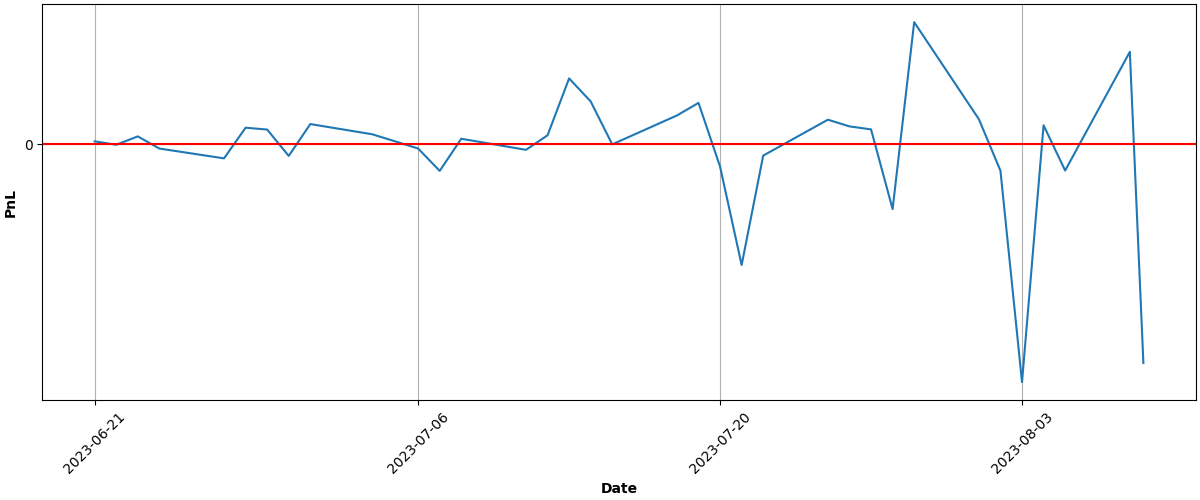
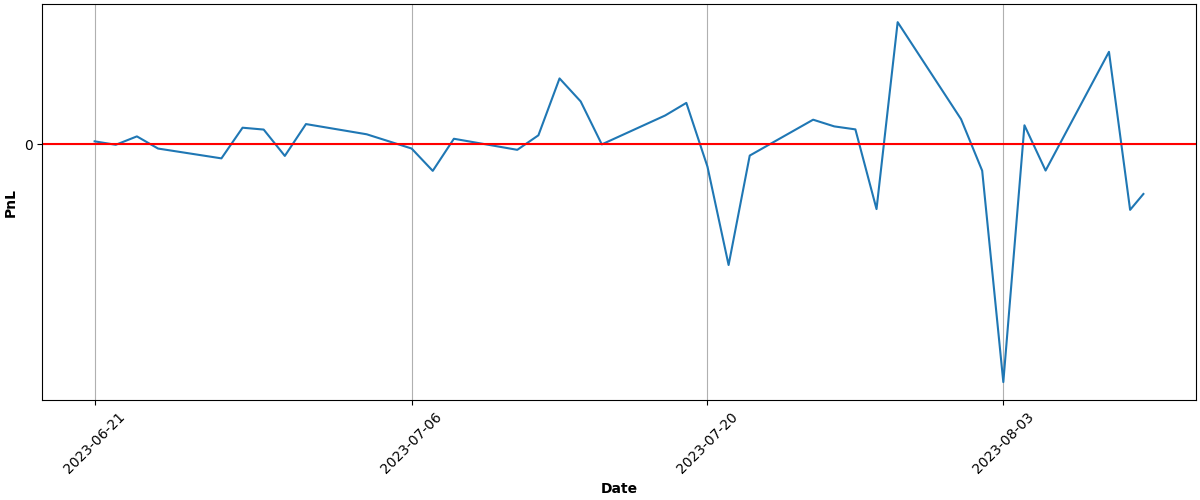
Automated Buy At Wed Aug  9 15:04:45 UTC 2023 Run ID 5810788402

diff --git a/README.md b/README.md
@@ -68,9 +68,9 @@ Results
 
 | Asset | Average Price | Current Price | ROI | 📈 |
 | --- | --- | --- | --- | --- |
-| FNGU | $190.56374372 | $179.3133 | -5.90% | &#128308;&#128546; |
-| SVIX | $27.837107143 | $24.8299 | -10.80% | &#128308;&#128546; |
-| **Total** |  |  | **-8.45%** | &#128308;&#128557; |
+| FNGU | $190.055107165 | $173.2801 | -8.83% | &#128308;&#128546; |
+| SVIX | $27.63698 | $27.61 | -0.10% | &#128308;&#128546; |
+| **Total** |  |  | **-4.21%** | &#128308;&#128557; |
 
 ### PnL over time (calculations may not be accurate):
 
@@ -81,6 +81,6 @@ Results
 ---
 
 
-Updated at 2023-08-08 15:04:31
+Updated at 2023-08-09 15:05:05
 
 
